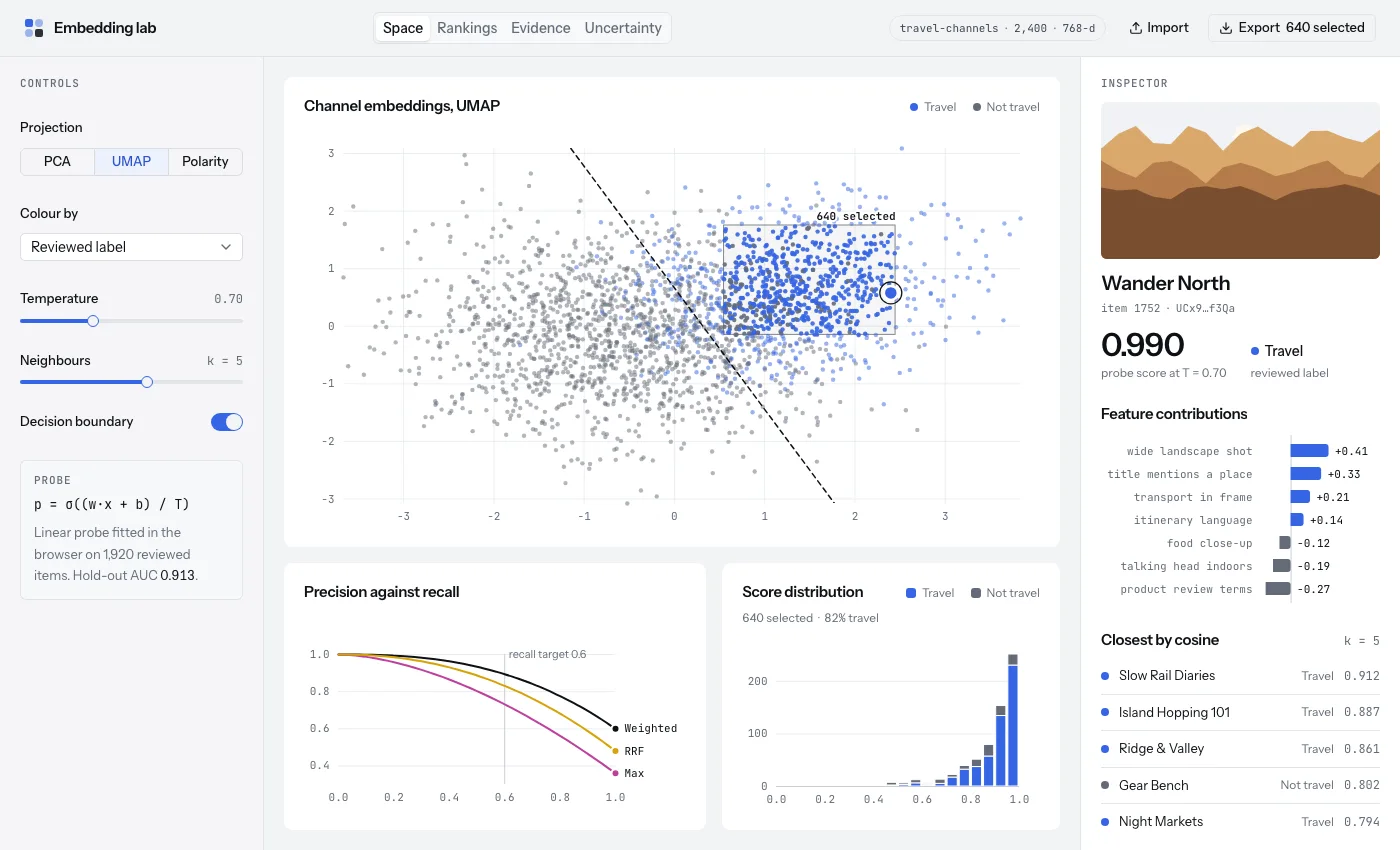
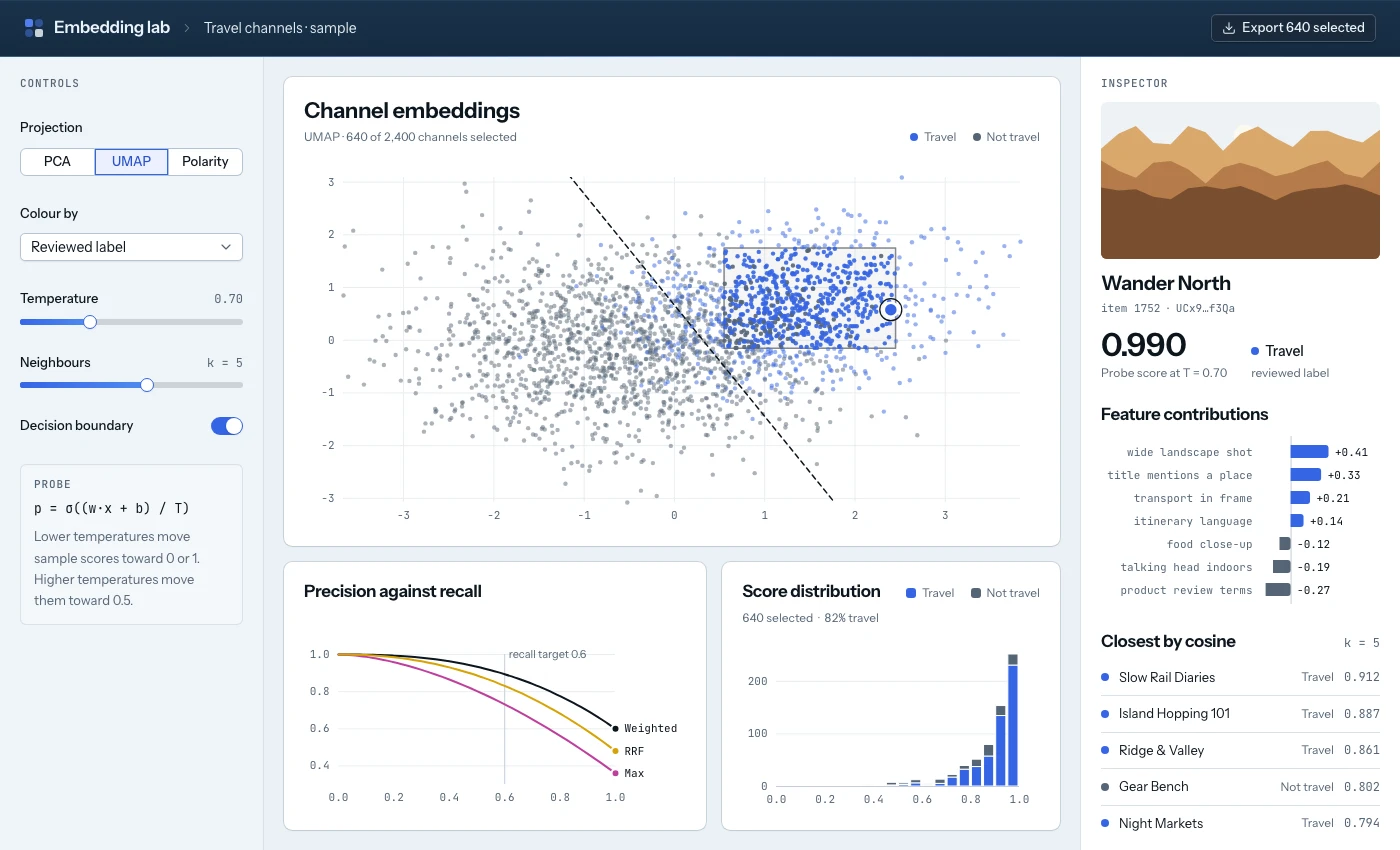
Show the current starters on the examples page and in the README
The README's review-station image and the examples page's lab image
were captured before the app bar, panels and controls changed, so both
showed starters that no longer look like what the gallery serves.

Both are recaptured from the built gallery in Instrument light at their
existing sizes. The review station is taken at desktop width so it
shows the three columns its caption describes. The examples page takes
the direction's panel surface like every other screen, and the gallery
README names the channels page.

diff --git a/apps/gallery/src/showcase.tsx b/apps/gallery/src/showcase.tsx
@@ -50,7 +50,7 @@ export function Showcase() {
       </p>
       <div className="mt-8 grid gap-6 md:grid-cols-2">
         {examples.map((example) => (
-          <article key={example.title} className="rounded-xl border bg-card p-4">
+          <article key={example.title} className="panel p-4">
             <img className="w-full rounded-lg border" src={example.image} alt={example.alt} />
             <h2 className="mt-5 text-xl font-semibold">{example.title}</h2>
             <p className="my-3 max-w-prose text-ink-2">{example.detail}</p>

diff --git a/apps/gallery/README.md b/apps/gallery/README.md
@@ -2,7 +2,8 @@
 
 Renders the kit's four screens (monitor, review, lab, report) in every
 direction and mode, plus a states page with the loading, empty, error and
-status blocks. Its examples page pairs the starters with Aside and Probability Lab.
+status blocks and a channels page with the channel evidence rows. Its examples
+page pairs the starters with Aside and Probability Lab.
 The screens, blocks and components live in `packages/kit`. It is the visual check for
 the theme and the kit, and so for what generated projects start from.
 
